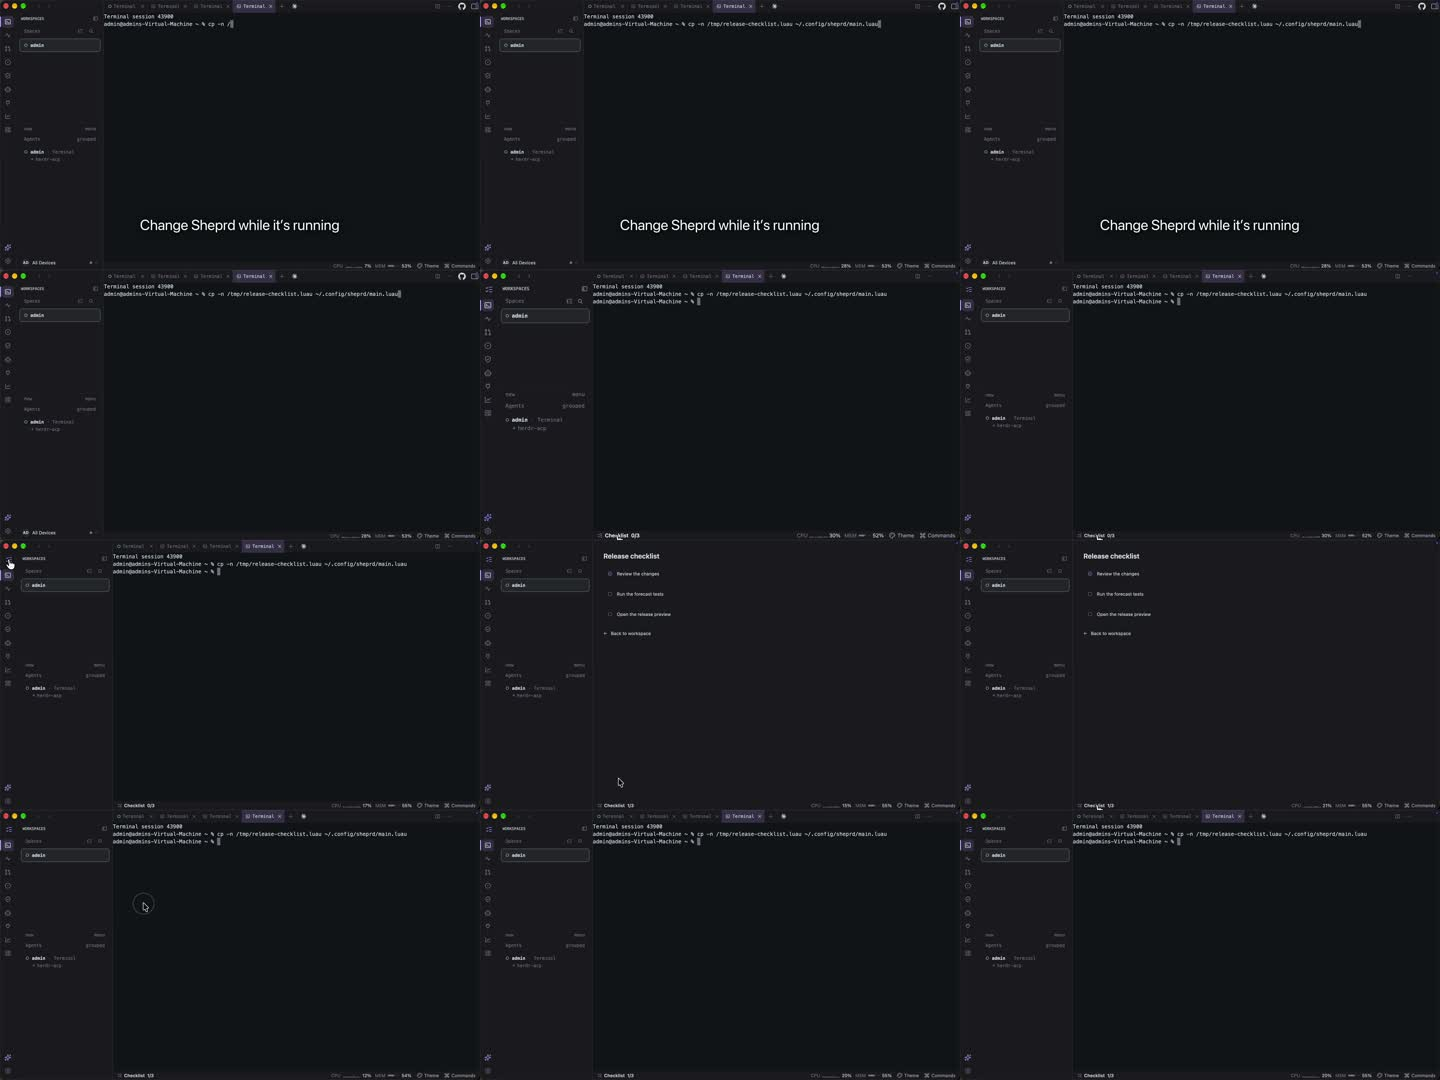
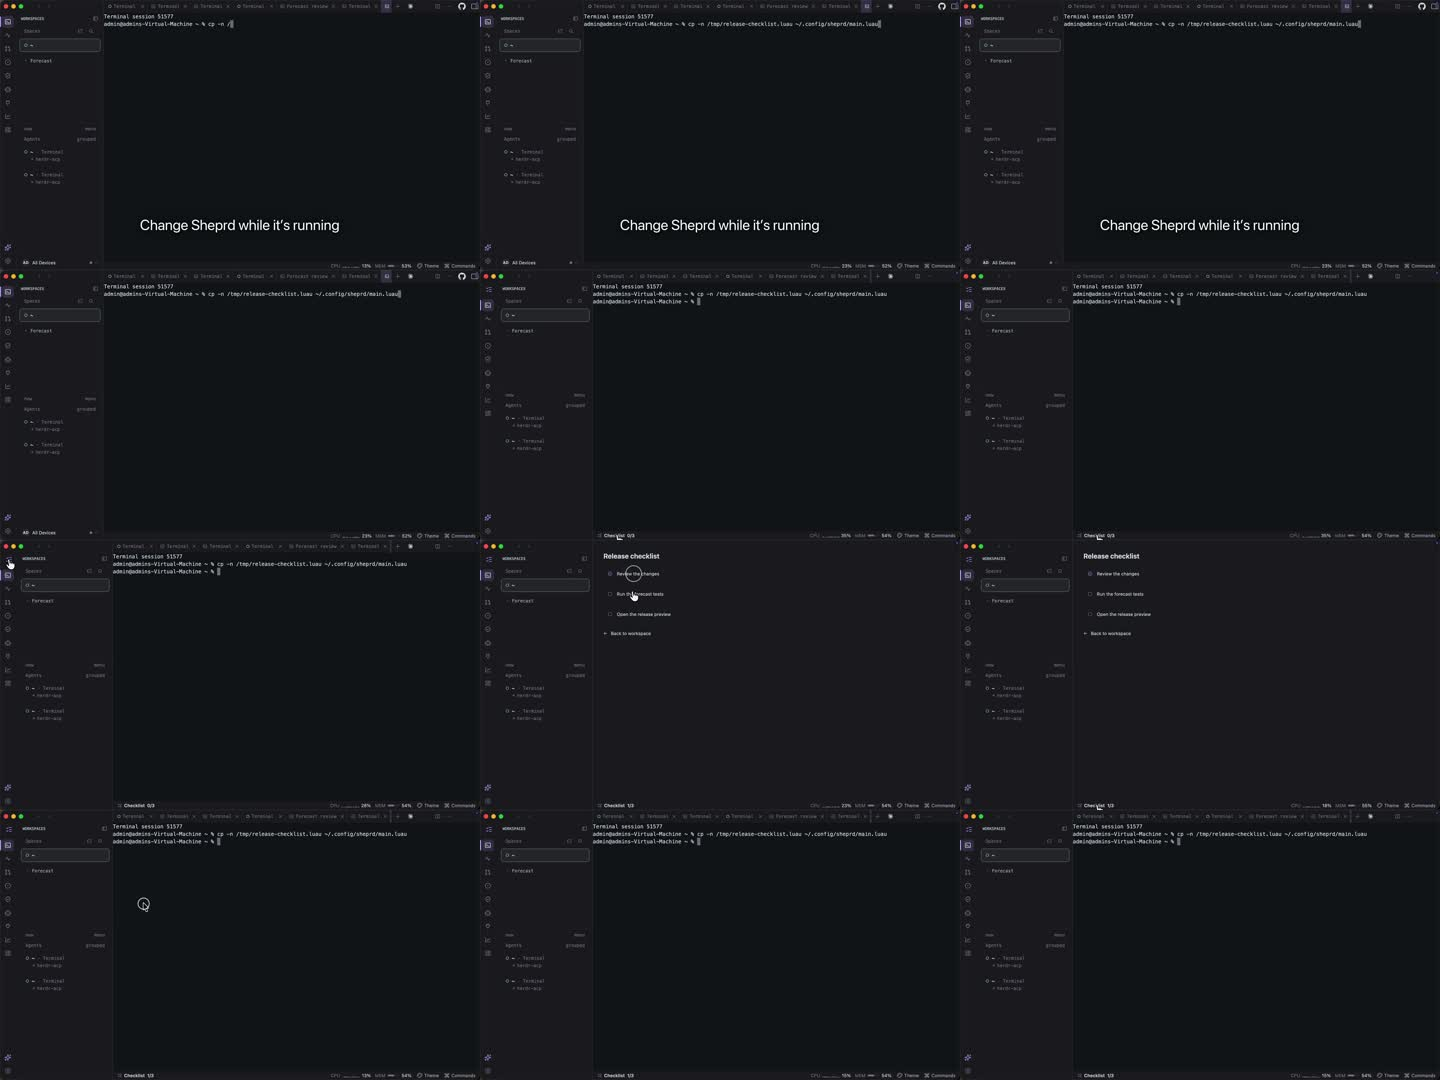
docs: show live Moonframe changes on the release build

diff --git a/release-2026-11-23/moonframe-live-ui/README.md b/release-2026-11-23/moonframe-live-ui/README.md
@@ -1,5 +1,5 @@
 # Moonframe live layout preview
 
-A 23-second recording from the screencast virtual Mac, using its installed build. Saving a layout adds a status counter and a checklist app. The new activity icon opens the checklist, and completing a task updates the counter. The original terminal session stays open.
+Recorded in the screencast virtual Mac on main at 7eafcb138 for the v20261123.1 release build. The English and French cuts are 24 seconds each. Saving a layout adds a status counter and a checklist app. The new activity icon opens the checklist, and completing a task updates the counter. The original terminal session stays open.
 
 [English](moonframe-live-ui.en.mp4) · [Français](moonframe-live-ui.fr.mp4) · [English with on-screen captions](moonframe-live-ui.en.captioned.mp4) · [Contact sheet](contact.jpg)
